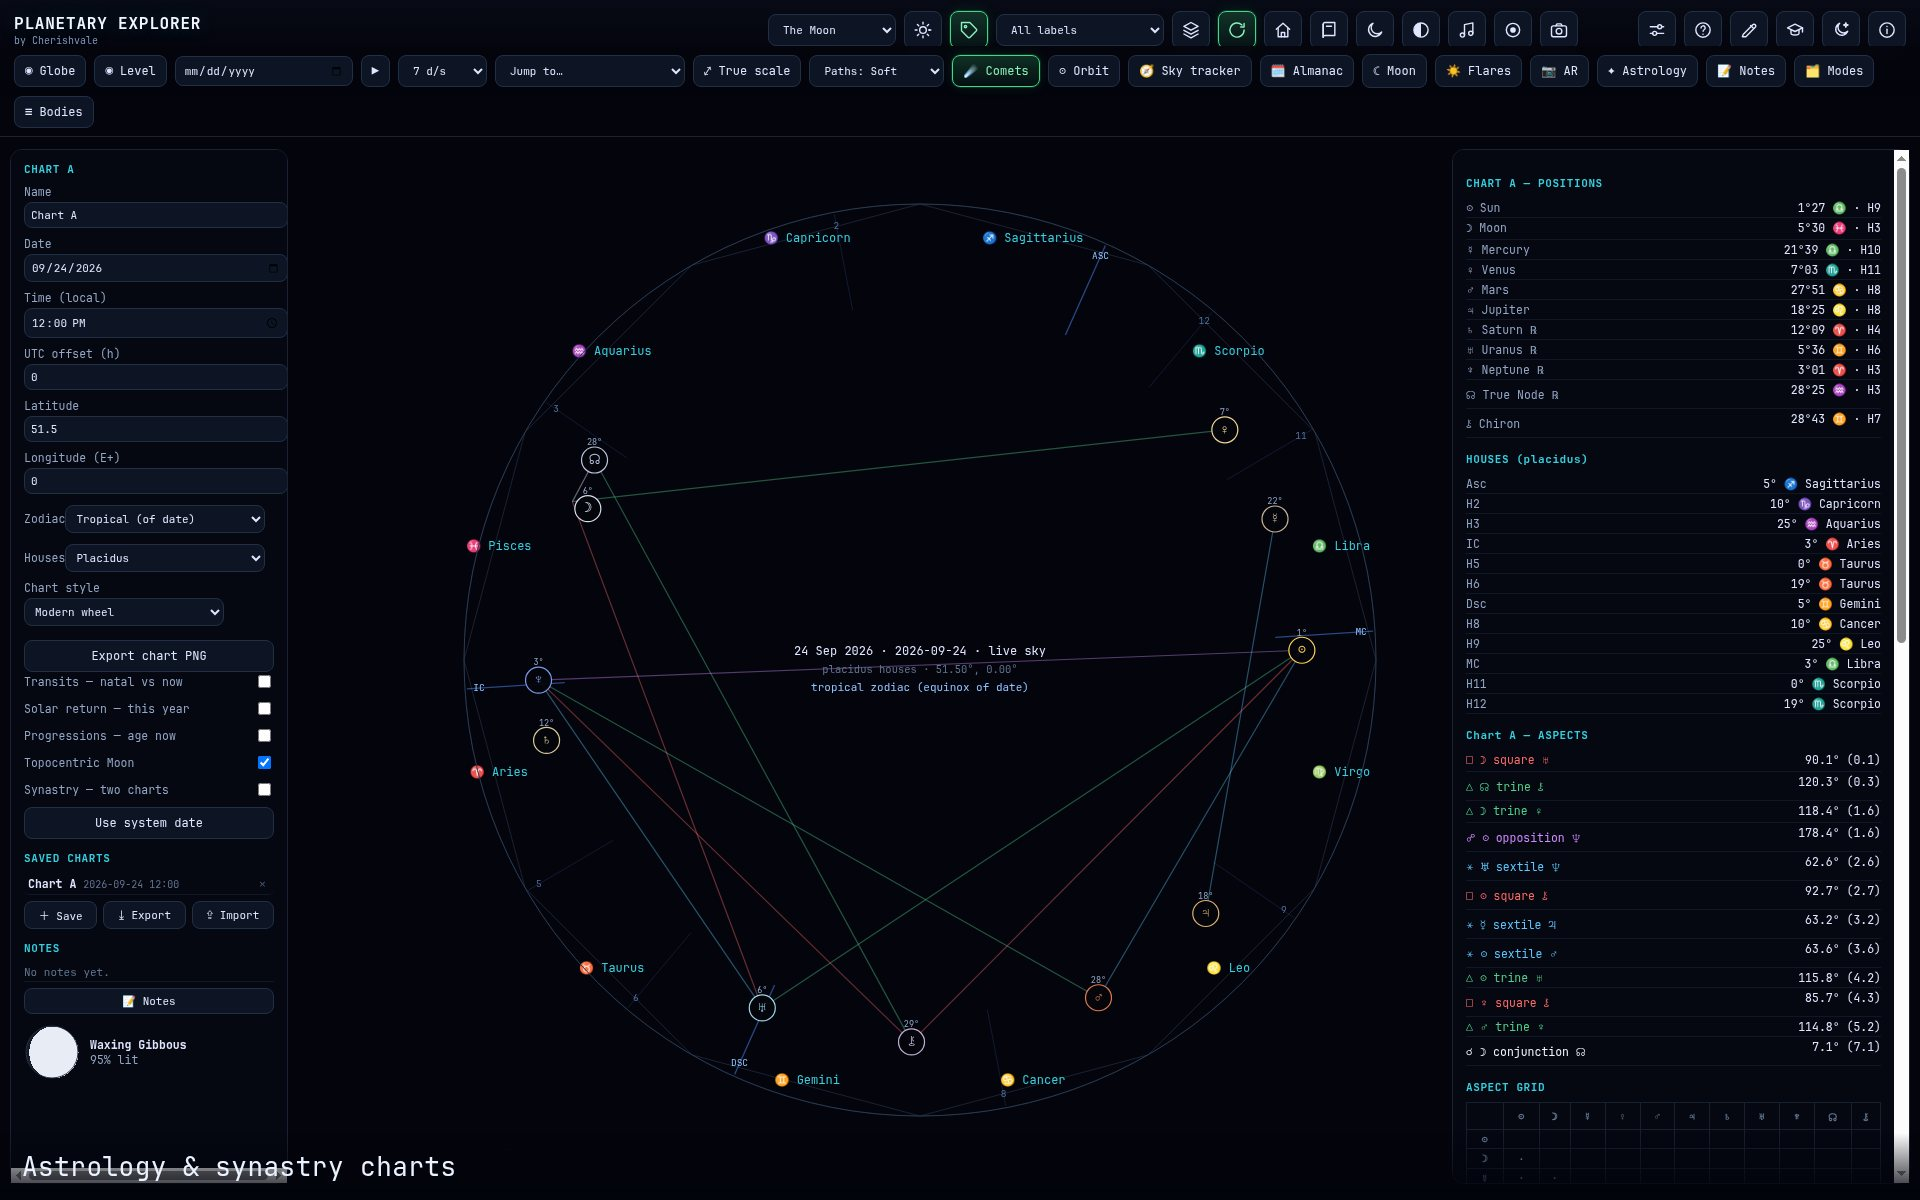
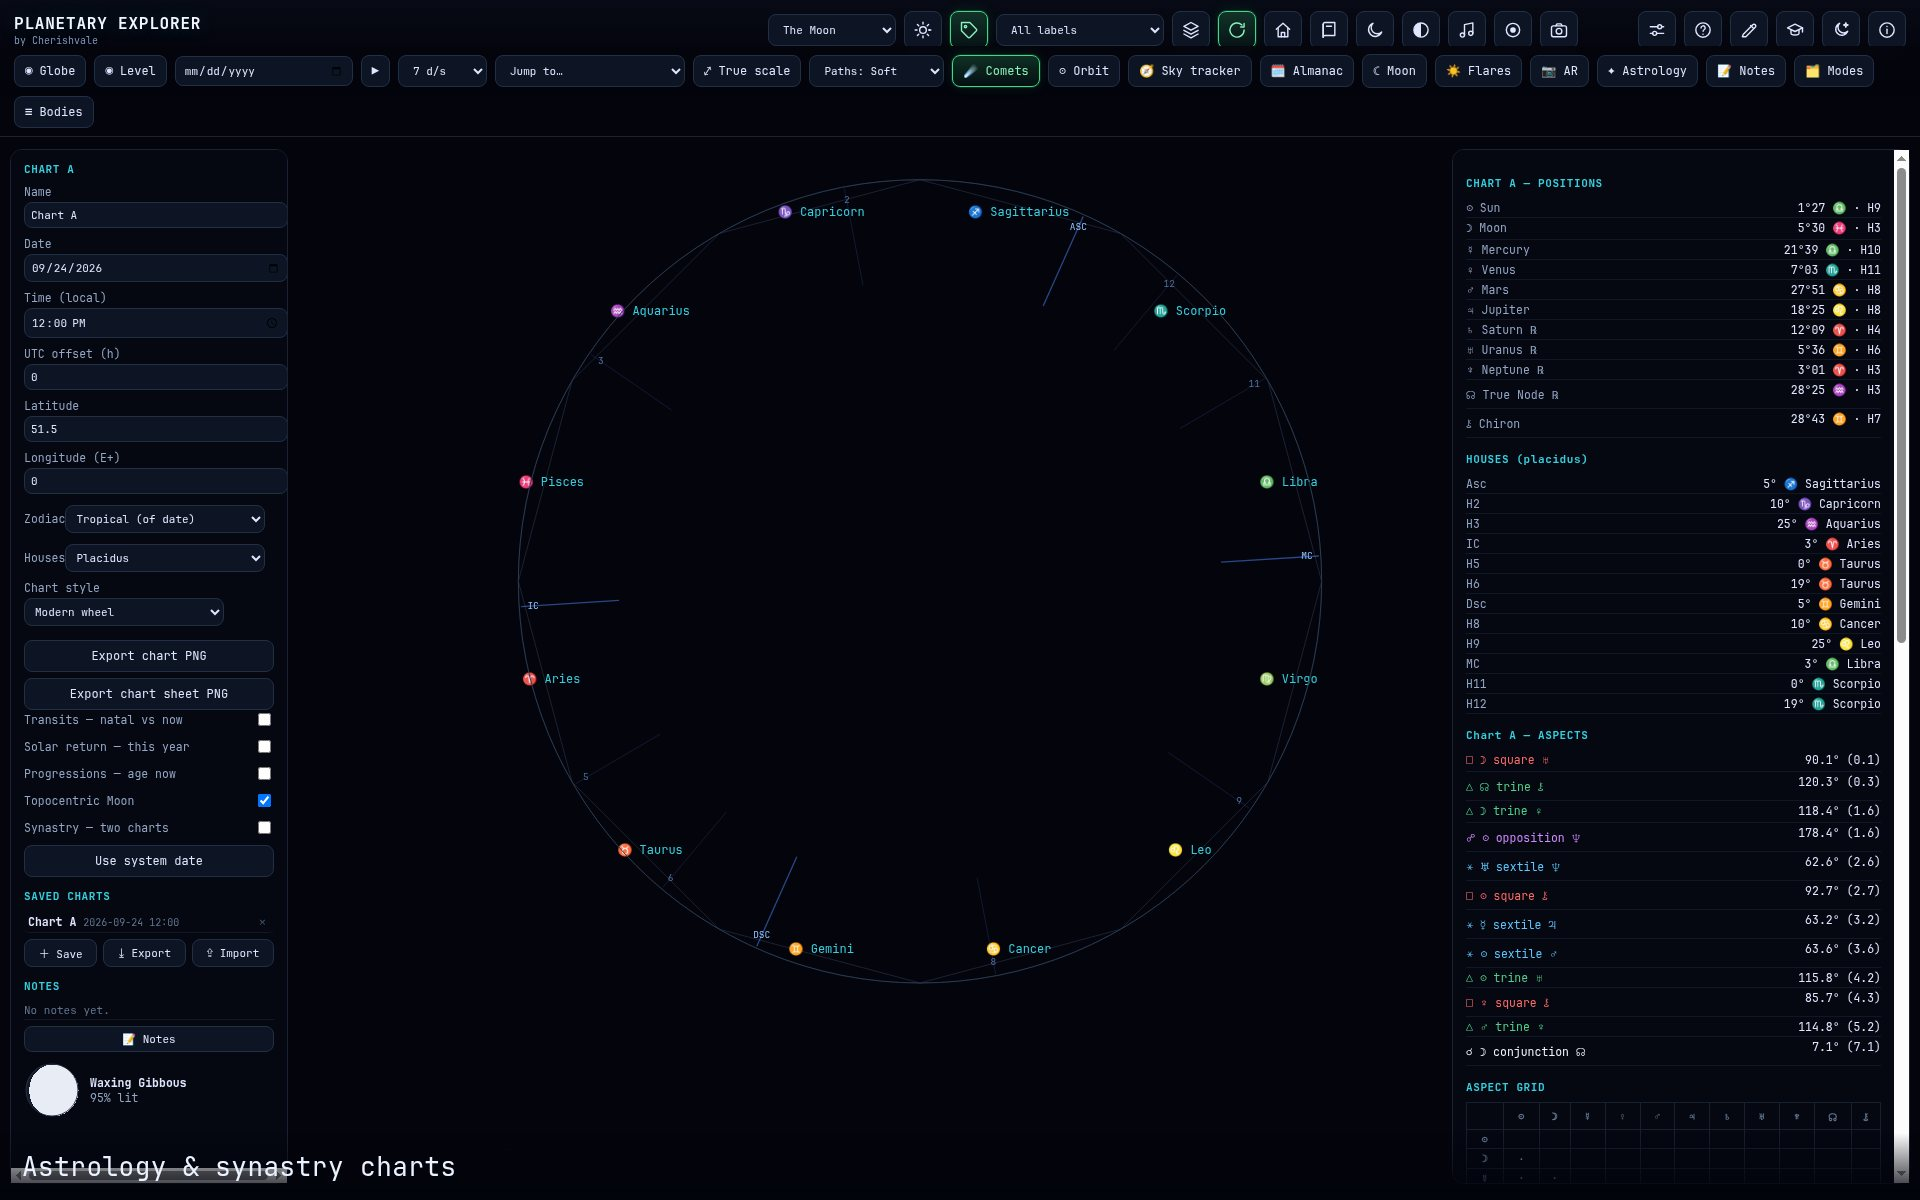
planetary-explorer: print theme + chart sheet copy, refreshed astrology shots

diff --git a/planetary-explorer.html b/planetary-explorer.html
@@ -149,7 +149,7 @@
   <div class="grid" style="grid-template-columns:repeat(auto-fit,minmax(300px,1fr))">
     <a class="shot" href="assets/screens/astrology.jpg"><img src="assets/screens/astrology.jpg" alt="Astrology birth chart with houses" loading="lazy"><span><b>A full birth-chart engine.</b> Enter a date, time, UTC offset and place to get the Ascendant, Midheaven and twelve house cusps in Placidus, whole sign, equal or Porphyry — plus every planet with sign, degree and retrograde state, a complete aspect list, an aspect grid and a house table. Calculated offline from our own ephemeris. Choose your zodiac: tropical, sidereal with five ayanamsas, Vedic nakshatras, or Chinese year animal and solar terms.</span></a>
     <a class="shot" href="assets/screens/synastry.jpg"><img src="assets/screens/synastry.jpg" alt="Synastry bi-wheel comparing two birth charts" loading="lazy"><span><b>Synastry.</b> Add a second person and both charts share one bi-wheel — inner ring and outer ring — with the cross-aspects drawn between them, a full inter-aspect list and a synastry grid.</span></a>
-    <a class="shot" href="assets/screens/classic-2d.jpg"><img src="assets/screens/classic-2d.jpg" alt="Classic 2D astrology chart with colored sign band and cusp degrees" loading="lazy"><span><b>Classic 2D chart.</b> Prefer the traditional look? One switch redraws the wheel flat and print-like — element-colored sign band, glyphs, every cusp degree, planet degree ticks and a center data block — with synastry, transits, progressions and solar returns carried over, plus one-tap 1600×1600 PNG export for publication.</span></a>
+    <a class="shot" href="assets/screens/classic-2d.jpg"><img src="assets/screens/classic-2d.jpg" alt="Classic 2D astrology chart with colored sign band and cusp degrees" loading="lazy"><span><b>Classic 2D chart.</b> Prefer the traditional look? One switch redraws the wheel flat and print-like — element-colored sign band, glyphs, every cusp degree, planet degree ticks and a center data block — with synastry, transits, progressions and solar returns carried over, plus one-tap 1600×1600 PNG export for publication — now with a light print theme and a full chart sheet (wheel, positions, houses, aspects) in one document.</span></a>
     <a class="shot" href="assets/screens/moon-mode.jpg"><img src="assets/screens/moon-mode.jpg" alt="Moon mode with true phase" loading="lazy"><span><b>Moon mode.</b> The Moon with its real surface and true phase for any date: illumination, phase angle, moon age, distance, angular size, the next four phases, rise/transit/set for your location, and a day-by-day phase calendar for the month.</span></a>
   </div>
 </div>
@@ -277,7 +277,7 @@
     <div class="card"><b>Weather-teaching layer</b><p>An optional classroom schematic of the semi-permanent <b>highs and lows</b> — idealized isobars and circulating surface winds, with the Coriolis sense made explicit. Clearly labelled a teaching model, not live data.</p></div>
     <div class="card"><b>Exoplanets</b><p>Over 100 notable worlds from other star systems, curated from the <b>NASA Exoplanet Archive</b> — Proxima b, the TRAPPIST-1 family, the hottest and puffiest planets and the historic firsts. Browse them in the Codex and search by planet or host-star name.</p></div>
     <div class="card"><b>Smooth, natural zoom</b><p>Zoom follows altitude, so the ground tracks your finger from whole planet down to a city. Scroll, pinch, or drag the slider; labels resolve continent → country → state → city.</p></div>
-    <div class="card"><b>Astrology mode</b><p>A complete birth-chart engine — Ascendant, Midheaven and houses in Placidus, whole sign, equal or Porphyry, with positions, retrograde states, aspects, an aspect grid and a house table, plus element/modality balance, essential dignities, the lunar nodes and Chiron, aspect patterns, retrograde stations, fixed-star contacts, midpoints, the Arabic parts, transits, progressions and the solar return. A Classic 2D style redraws the wheel in the traditional flat idiom for working astrologers.</p></div>
+    <div class="card"><b>Astrology mode</b><p>A complete birth-chart engine — Ascendant, Midheaven and houses in Placidus, whole sign, equal or Porphyry, with positions, retrograde states, aspects, an aspect grid and a house table, plus element/modality balance, essential dignities, the lunar nodes and Chiron, aspect patterns, retrograde stations, fixed-star contacts, midpoints, the Arabic parts, transits, progressions and the solar return. A Classic 2D style redraws the wheel in the traditional flat idiom for working astrologers, with a light print theme and a full chart-sheet export.</p></div>
     <div class="card"><b>Every mode, one tap</b><p>A Modes grid jumps to any view — atlas, solar system, sky tracker, space weather, astrology, Moon, almanac, AR, codex, First light — each with a one-line how-to and its own help — plus a Find-anything search inside Help that jumps straight to any feature.</p></div>
     <div class="card"><b>Synastry</b><p>Compare two people on a single bi-wheel: both charts, every cross-aspect, an inter-aspect list and a synastry grid.</p></div>
     <div class="card"><b>Moon mode</b><p>The Moon's true phase for any date — illumination, age, distance, angular size, next phases, rise/set times and a month of phases at a glance.</p></div>
